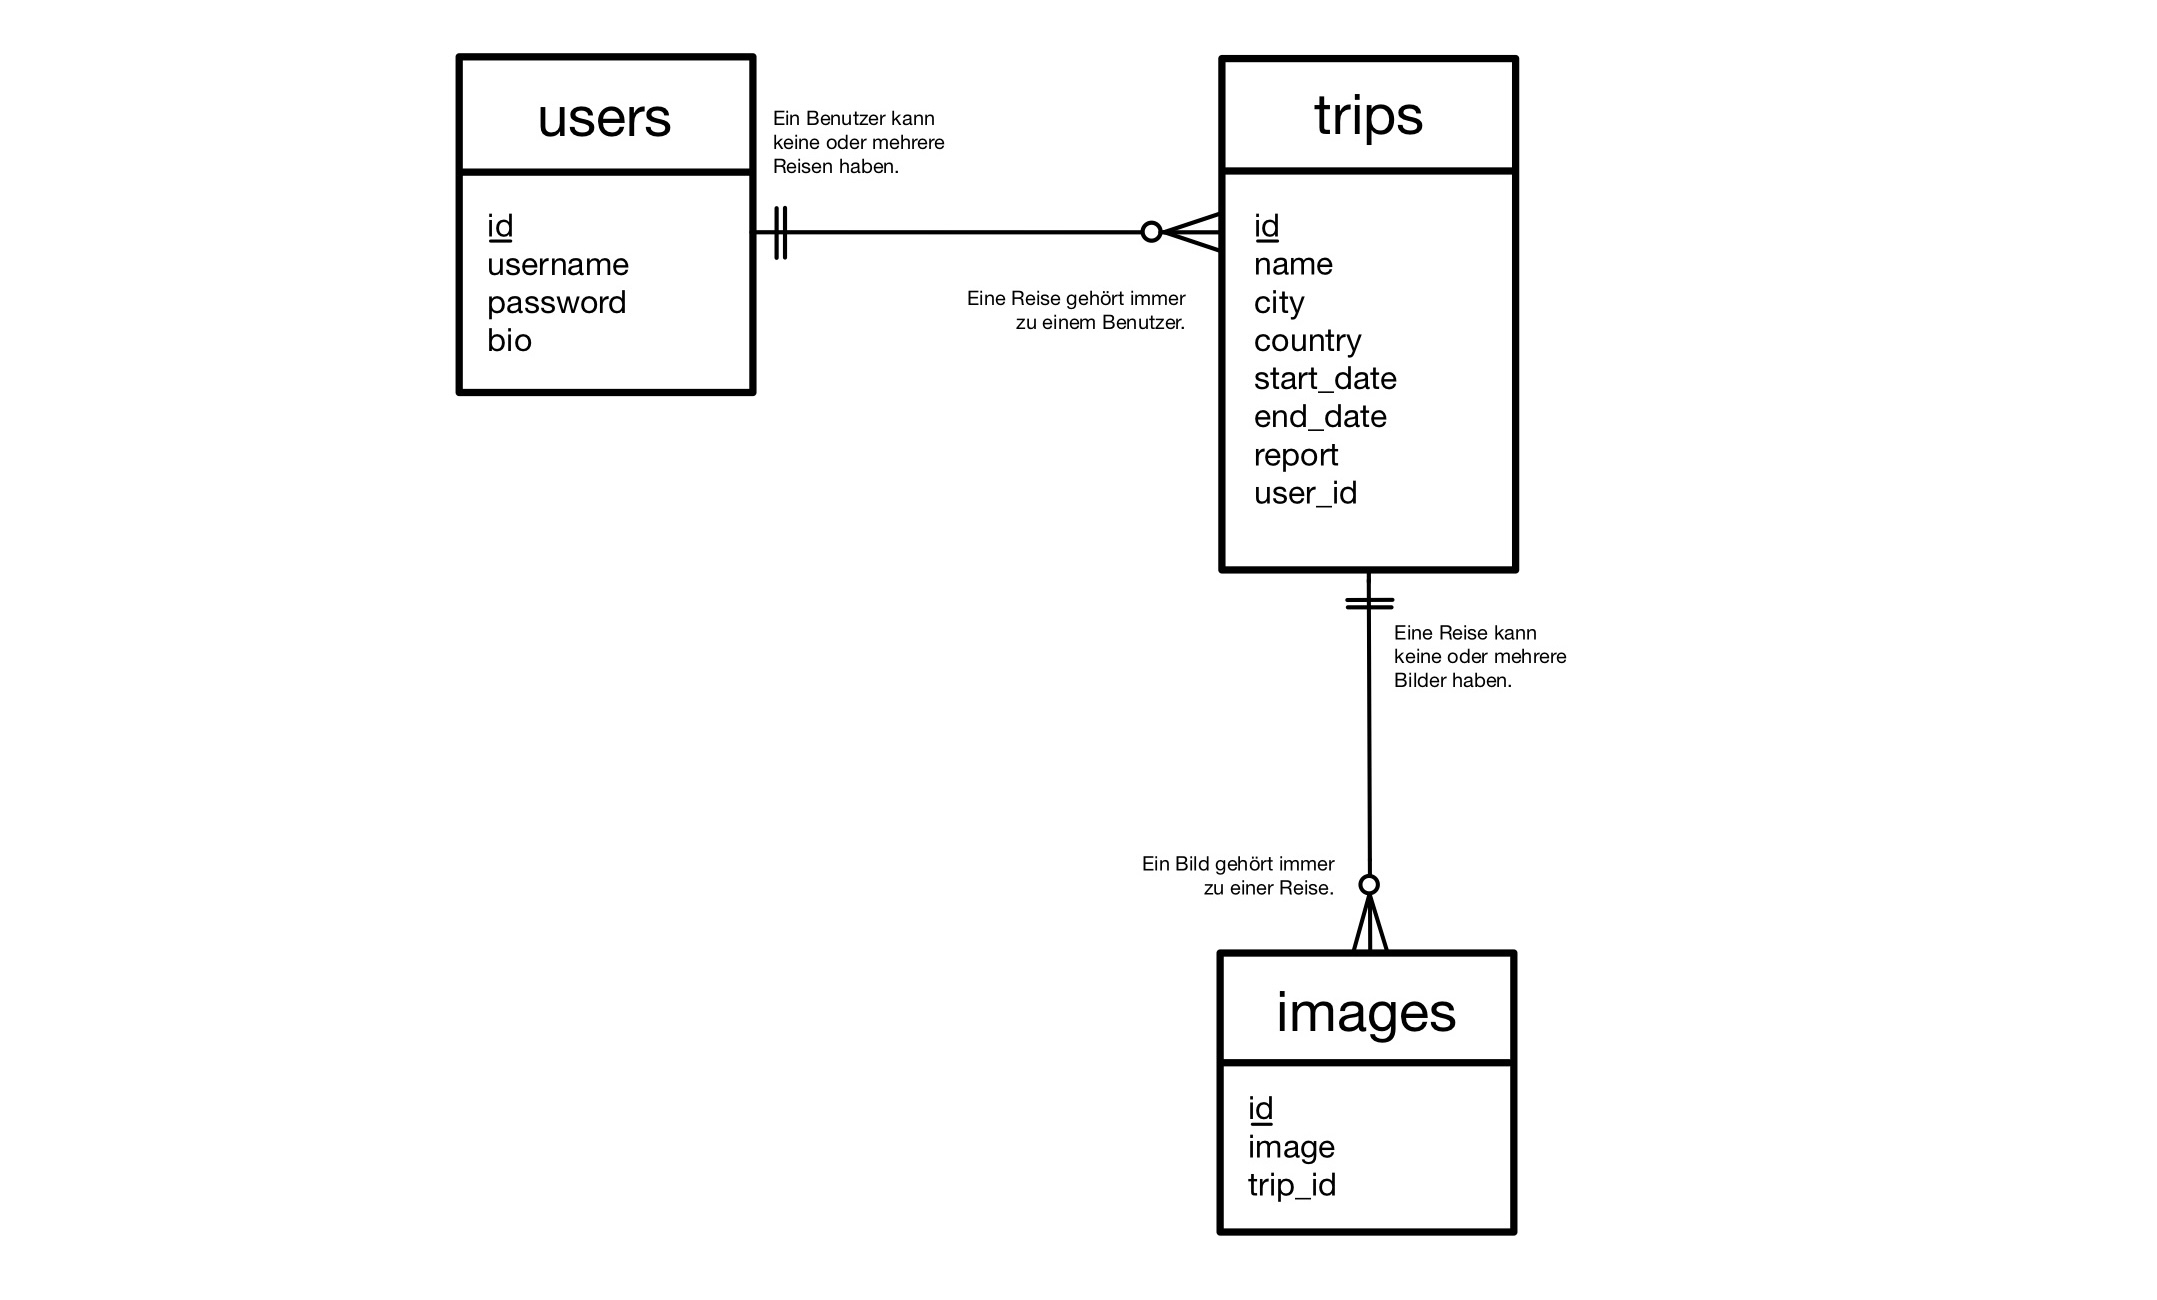
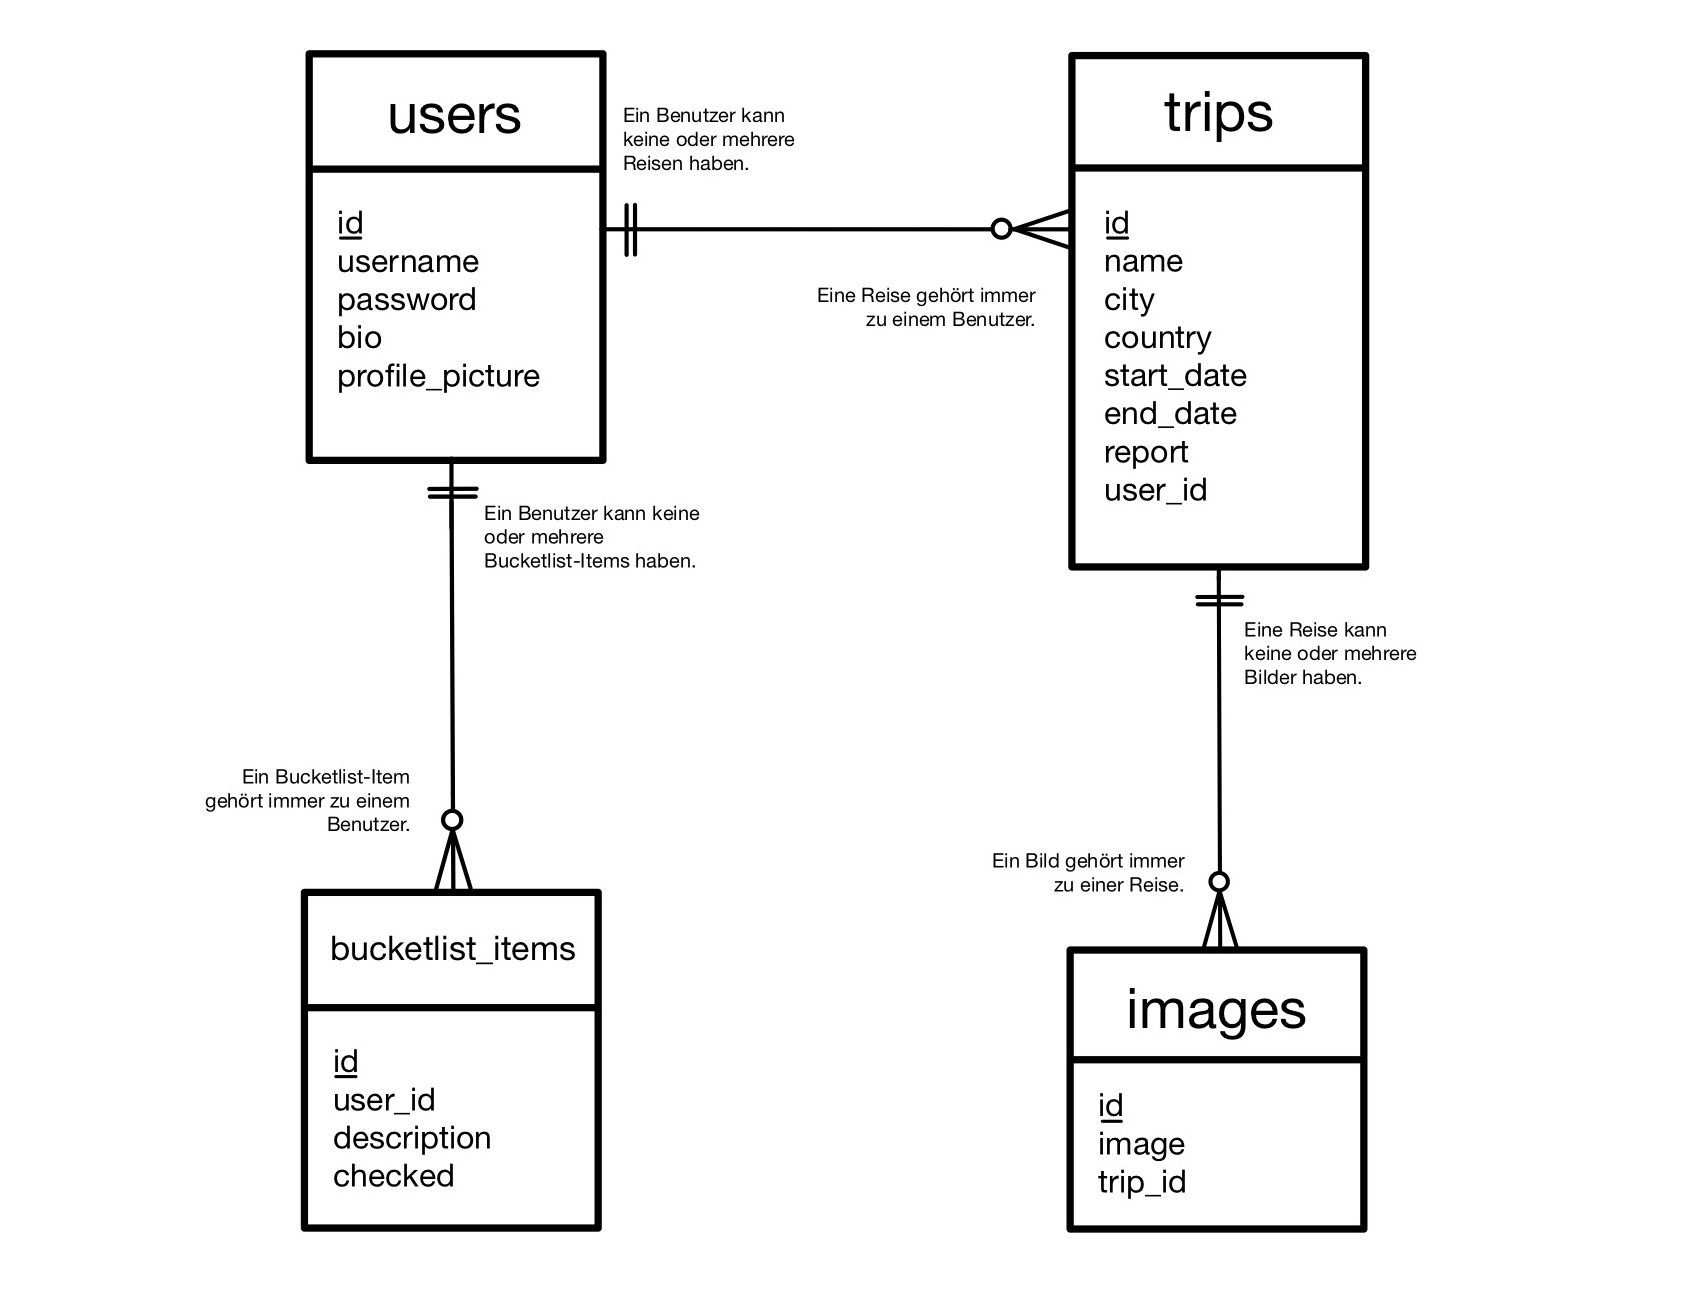
Anpassung der Dokumentation

diff --git a/docs/technical-docs/data-model.md b/docs/technical-docs/data-model.md
@@ -30,6 +30,10 @@ TripTiks Datenbank besteht aus mehreren Entitäten, die die Geschäftslogik und 
 
 ![images](../assets/images/images.png "images-Tabelle")
 
+4. **bucketlist_items**
+
+![images](../assets/images/bucketlist_items.png "bucketlist_items-Tabelle")
+
 ---
 
 ## Entitäten und ihre Attribute
@@ -39,6 +43,7 @@ TripTiks Datenbank besteht aus mehreren Entitäten, die die Geschäftslogik und 
 + `username`: Der Benutzername muss eindeutig sein.
 + `password`: Das Passwort des Benutzers wird als Hash gespeichert, damit es nicht als Klartext, in der Datenbank, lesbar ist.
 + `bio`: Das Hinzufügen einer Biografie ist für jeden Nutzer optional.
++ `profile_picture`: Das Hinzufügen eines Profilbildes ist ebenfalls optional, wobei hier dann der Pfad oder die URL zum Profilbild gespeichert wird.
 
 2. **trips**
 + `id`: Auch hier ist die id der Primärschlüssel und dient hier der eindeutigen Identifikation der Reise.
@@ -55,11 +60,18 @@ TripTiks Datenbank besteht aus mehreren Entitäten, die die Geschäftslogik und 
 + `image`: Hier werden die Binärdaten des Bildes gespeichert.
 + `trip_id`: Dieser Fremdschlüssel, verweist auf die `trips`-Tabelle und ordnet das Bild einer bestimmten Reise zu.
 
+4. **bucketlist_items**
++ `id`: Die id dient auch hier als Primärschlüssel und sorgt für die eindeutige Identifikation des Bucketlist-Items.
++ `user_id`: Der Fremdschlüssel verweist auf die `users`-Tabelle.
++ `description`: Hier wird die Beschreibung des Bucketlist-Items gespeichert.
++ `checked`: Und zuletzt gibt dieses Attribut an, ob das Item abgehakt ist, wobei der Wert standardmäßig FALSE ist.
+
 ---
 
 ## Beziehung zwischen den Entitäten
 
 + **users und trips:** Ein Benutzer kann mehrere Reisen erstellen, wobei jede Reise einem Benutzer eindeutig zugeordnet ist. Die `user_id` in `trips` verweist dabei auf `id` in `users`.
++ **users und bucketlist_items:** Jeder Benutzer kann mehrere Bucketlist-Items haben, die durch `user_id` in `bucketlist_items` mit dem Benutzer verknüpft sind.
 + **trips und images:** Eine Reise kann mehrere Bilder enthalten, wobei jedes Bild einer Reise eindeutig zugeordnet ist. Dabei verweist `trip_id` in `images` auf `id` in `trips`.
 
 ---
